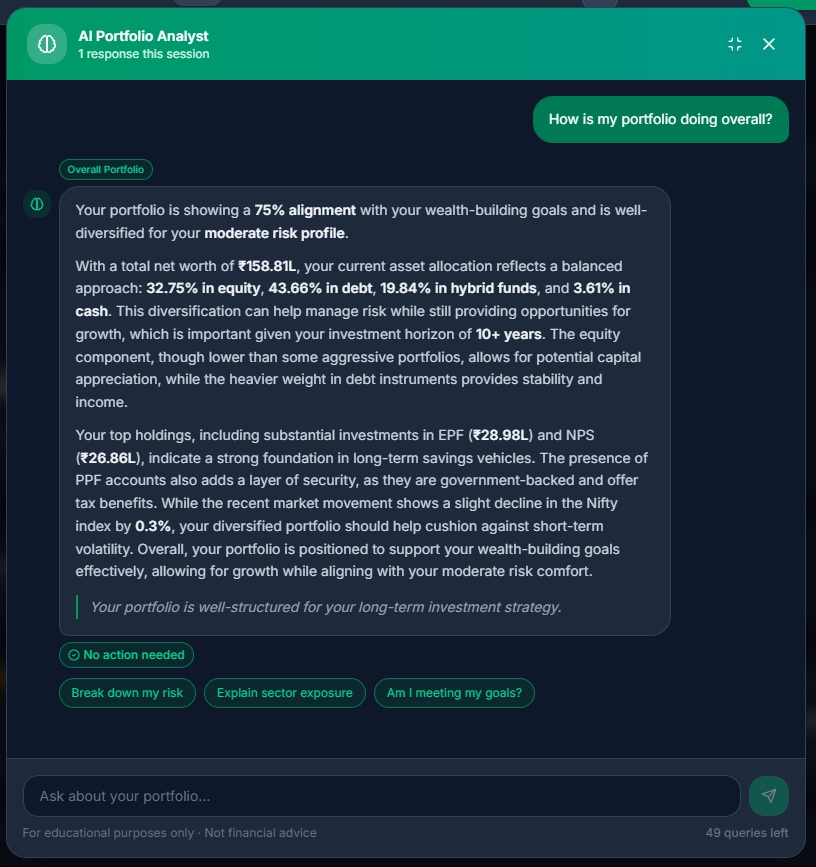
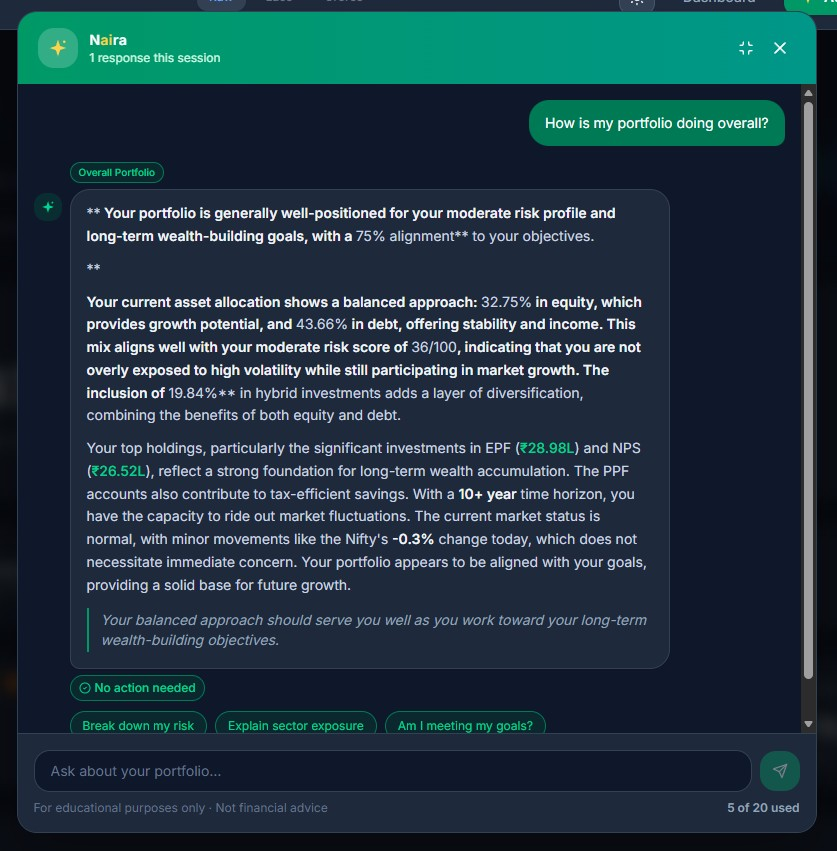
all changese

Changed region(s): [[0.0, 0.0, 1.0, 1.0], [0.0, 0.4888, 0.0306, 0.6722]]

diff --git a/src/app/demo/page.tsx b/src/app/demo/page.tsx
@@ -1,8 +1,55 @@
 'use client';
 
-import { useState } from 'react';
+import { useState, useEffect, useRef } from 'react';
 import Image from 'next/image';
 import { AppHeader } from '@/components/AppHeader';
+
+function SparkleIcon({ size = '1em', isActive = false }: { size?: string; isActive?: boolean }) {
+  const ref = useRef<HTMLSpanElement>(null);
+  useEffect(() => {
+    const el = ref.current;
+    if (!el) return;
+
+    const keyframes: Keyframe[] = [
+      { transform: 'scale(1)',   color: '#2563EB' },
+      { transform: 'scale(1.6)', color: '#FBBF24' },
+      { transform: 'scale(0.8)', color: '#F59E0B' },
+      { transform: 'scale(2.0)', color: '#FBBF24' },
+      { transform: 'scale(0.9)', color: '#F59E0B' },
+      { transform: 'scale(1.3)', color: '#2563EB' },
+      { transform: 'scale(1)',   color: '#2563EB' },
+    ];
+    const options: KeyframeAnimationOptions = {
+      duration: 1600,
+      iterations: 1,
+      fill: 'none',
+      easing: 'ease-in-out',
+    };
+
+    let current: Animation | null = null;
+    const play = () => {
+      if (document.hidden) return;
+      current?.cancel();
+      current = el.animate(keyframes, options);
+    };
+
+    const initTimer = setTimeout(play, 500);
+    const interval = setInterval(play, 7000);
+    const onVisibilityChange = () => { if (!document.hidden) play(); };
+    document.addEventListener('visibilitychange', onVisibilityChange);
+
+    return () => {
+      clearTimeout(initTimer);
+      clearInterval(interval);
+      document.removeEventListener('visibilitychange', onVisibilityChange);
+      current?.cancel();
+    };
+  }, []);
+
+  return (
+    <span ref={ref} style={{ display: 'inline-block', color: isActive ? '#FCD34D' : '#6366F1', fontSize: size }}>✦</span>
+  );
+}
 
 // ---------------------------------------------------------------------------
 // Types
@@ -66,13 +113,13 @@ const demoImages: Record<DemoState, string> = {
 // Top nav
 // ---------------------------------------------------------------------------
 
-const NAV_ITEMS: { id: DemoState; label: string; icon: string }[] = [
+const NAV_ITEMS: { id: DemoState; label: string; icon: string | null }[] = [
   { id: 'dashboard',    label: 'Dashboard Overview',      icon: '📊' },
   { id: 'asset-buckets',label: 'Asset Buckets',           icon: '🪣' },
   { id: 'allocation',   label: 'Build Portfolio',          icon: '⚖' },
   { id: 'liabilities',  label: 'Liabilities & Protection',icon: '🛡' },
   { id: 'exposure',     label: 'Exposure Analytics',      icon: '🔍' },
-  { id: 'copilot',      label: 'AI Copilot',              icon: '✨' },
+  { id: 'copilot',      label: 'AI Naira',                icon: null },
 ];
 
 // All sub-states that live under "Asset Buckets"
@@ -308,8 +355,8 @@ function getPageInfo(state: DemoState): PageInfo {
       };
     case 'copilot':
       return {
-        title: 'AI Copilot',
-        description: 'Ask plain-English questions about your portfolio and get answers grounded in your actual data. "Am I over-exposed to IT?", "Which holdings are dragging returns?", "How should I rebalance?" — the AI Copilot analyses your real holdings and gives actionable, personalised guidance. Available on Premium and Pro plans.',
+        title: 'AI Naira',
+        description: 'Ask plain-English questions about your portfolio and get answers grounded in your actual data. "Am I over-exposed to IT?", "Which holdings are dragging returns?", "How should I rebalance?" — Naira, your AI Portfolio Analyst, analyses your real holdings and gives actionable, personalised guidance. Available on Premium and Pro plans.',
         clickHint: 'Scroll down to see AI analysis examples powered by your real portfolio data.',
       };
   }
@@ -358,8 +405,14 @@ export default function DemoPage() {
                           : 'text-[#475569] dark:text-[#94A3B8] hover:bg-[#F1F5F9] dark:hover:bg-[#1E293B]'
                       }`}
                     >
-                      <span className="mr-1.5">{item.icon}</span>
-                      {item.label}
+                      {item.id === 'copilot' ? (
+                        <span className="inline-flex items-center gap-2">
+                          <SparkleIcon size="1.1em" isActive={isActive} />
+                          <span>AI N<span style={{ color: isActive ? '#FCD34D' : '#6366F1' }}>ai</span>ra</span>
+                        </span>
+                      ) : (
+                        <><span className="mr-1.5">{item.icon}</span>{item.label}</>
+                      )}
                     </button>
                   </li>
                 );
@@ -425,7 +478,7 @@ export default function DemoPage() {
             transition: 'opacity 0.15s ease-in-out',
           }}
         >
-          {/* AI Copilot: two images stacked */}
+          {/* AI Naira: two images stacked */}
           {demoState === 'copilot' ? (
             <div className="flex flex-col gap-4">
               {['ai_analysis_1.webp', 'ai_analysis_2.webp'].map((img) => (

diff --git a/src/lib/auth/context.tsx b/src/lib/auth/context.tsx
@@ -69,7 +69,7 @@ interface AuthAppDataState {
 
 interface AuthState extends AuthSessionState, AuthAppDataState {
   // Auth methods
-  sendMagicLink: (email: string) => Promise<{ error: Error | null }>;
+  sendMagicLink: (email: string, isSignup?: boolean) => Promise<{ error: Error | null }>;
   sendOtp: (phone: string) => Promise<{ error: Error | null }>;
   verifyOtp: (phone: string, token: string) => Promise<{ error: Error | null }>;
   sendEmailVerification: (email: string) => Promise<{ error: Error | null }>;
@@ -572,17 +572,19 @@ export function AuthProvider({ children }: { children: ReactNode }) {
   /**
    * Send magic link to email for passwordless login
    */
-  const sendMagicLink = async (email: string) => {
+  const sendMagicLink = async (email: string, isSignup = false) => {
     if (!supabase) {
       return { error: new Error('Supabase client not available') };
     }
-    
+
     try {
       const { data, error } = await supabase.auth.signInWithOtp({
         email,
         options: {
           emailRedirectTo: `${window.location.origin}/auth/callback`,
-          shouldCreateUser: false,
+          // Login: shouldCreateUser=false blocks OTP for unregistered emails (login hardening).
+          // Signup: shouldCreateUser=true allows new account creation.
+          shouldCreateUser: isSignup,
         },
       });
       

diff --git a/src/app/api/auth/phone-login/route.ts b/src/app/api/auth/phone-login/route.ts
@@ -150,6 +150,28 @@ export async function POST(req: NextRequest) {
     }
 
     /**
+     * 5b⃣ If optional email was provided, update auth.users.email so the user
+     *     can later log in via email magic link.
+     *     Without this, auth.users.email stays as the internal email and
+     *     magic link login would fail for this user.
+     *     Only runs when optionalEmail is present (signup path, not login path).
+     */
+    if (optionalEmail && optionalEmail.includes('@')) {
+      const { error: authEmailError } = await supabaseAdmin.auth.admin.updateUserById(user.id, {
+        email: optionalEmail,
+        email_confirm: true,
+      });
+      if (authEmailError) {
+        console.warn('[phone-login] Could not update auth.users email:', authEmailError.message);
+        // Non-fatal: public.users has the email; phone login still works
+      } else {
+        console.log('[phone-login] Updated auth.users.email to real email for phone-signup user');
+        // Must use real email for signInWithPassword since auth.users.email is now updated
+        returnEmail = optionalEmail;
+      }
+    }
+
+    /**
      * 6⃣ Return credentials for frontend login
      */
     return NextResponse.json({

diff --git a/src/app/signup/page.tsx b/src/app/signup/page.tsx
@@ -240,8 +240,8 @@ export default function SignupPage() {
         localStorage.removeItem('signup_optional_phone');
       }
       
-      // 3. Send magic link
-      const { error: magicLinkError } = await sendMagicLink(email);
+      // 3. Send magic link (isSignup=true so Supabase creates the new user)
+      const { error: magicLinkError } = await sendMagicLink(email, true);
       
       if (magicLinkError) {
         setError(friendlyErrorMessage(magicLinkError.message));
@@ -519,8 +519,8 @@ export default function SignupPage() {
         return;
       }
       
-      const { error: magicLinkError } = await sendMagicLink(email);
-      
+      const { error: magicLinkError } = await sendMagicLink(email, true);
+
       if (magicLinkError) {
         setError(friendlyErrorMessage(magicLinkError.message));
       } else {

diff --git a/src/app/dashboard/page.tsx b/src/app/dashboard/page.tsx
@@ -1488,7 +1488,7 @@ function DashboardContent() {
                     aria-label={`${bucketName} color indicator`}
                   />
                   <div className="flex items-center gap-2 mb-3 pr-8">
-                    <p className="text-xs font-medium text-[#6B7280] dark:text-[#94A3B8] whitespace-nowrap">
+                    <p className="text-sm font-semibold text-[#0F172A] dark:text-[#F8FAFC] whitespace-nowrap">
                       {isCashBucket ? 'Cash' : bucketName}
                     </p>
                     <CategoryInfoTooltip content={tooltip} />
